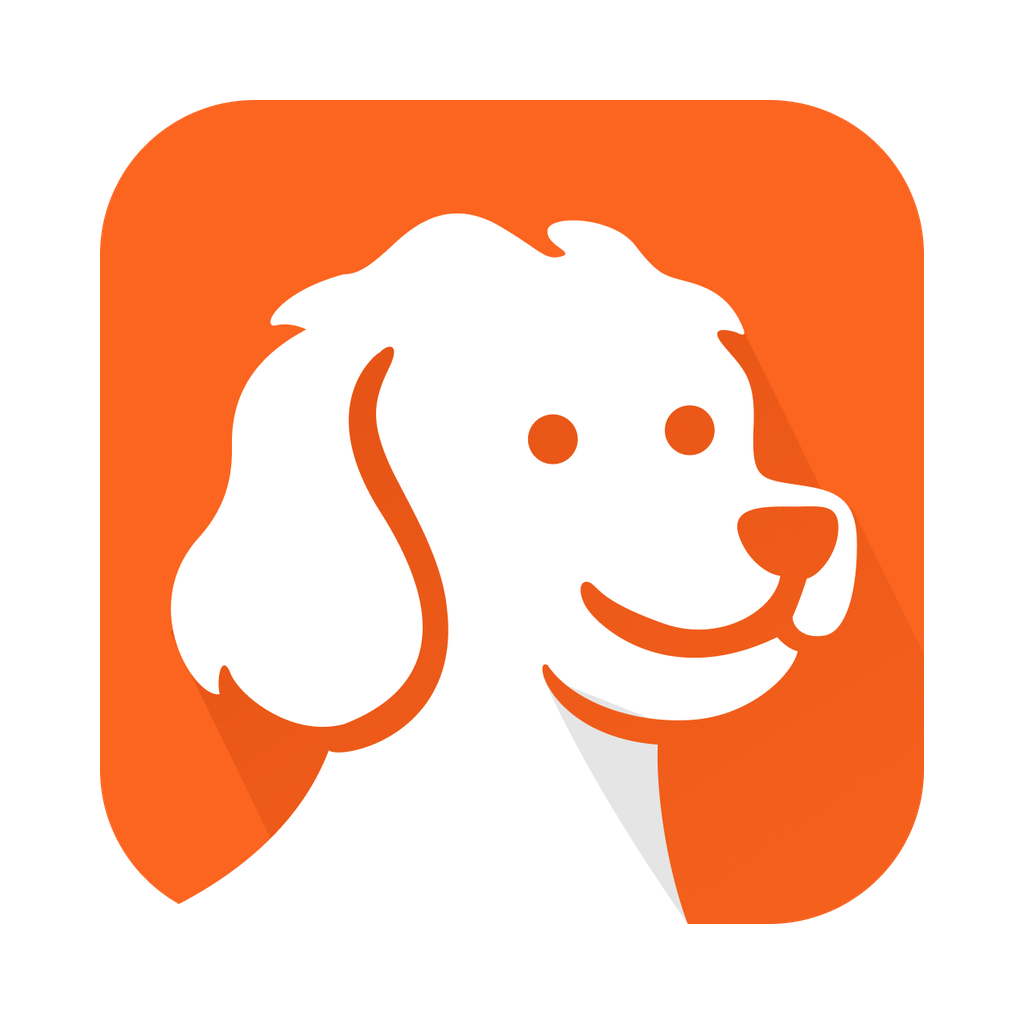
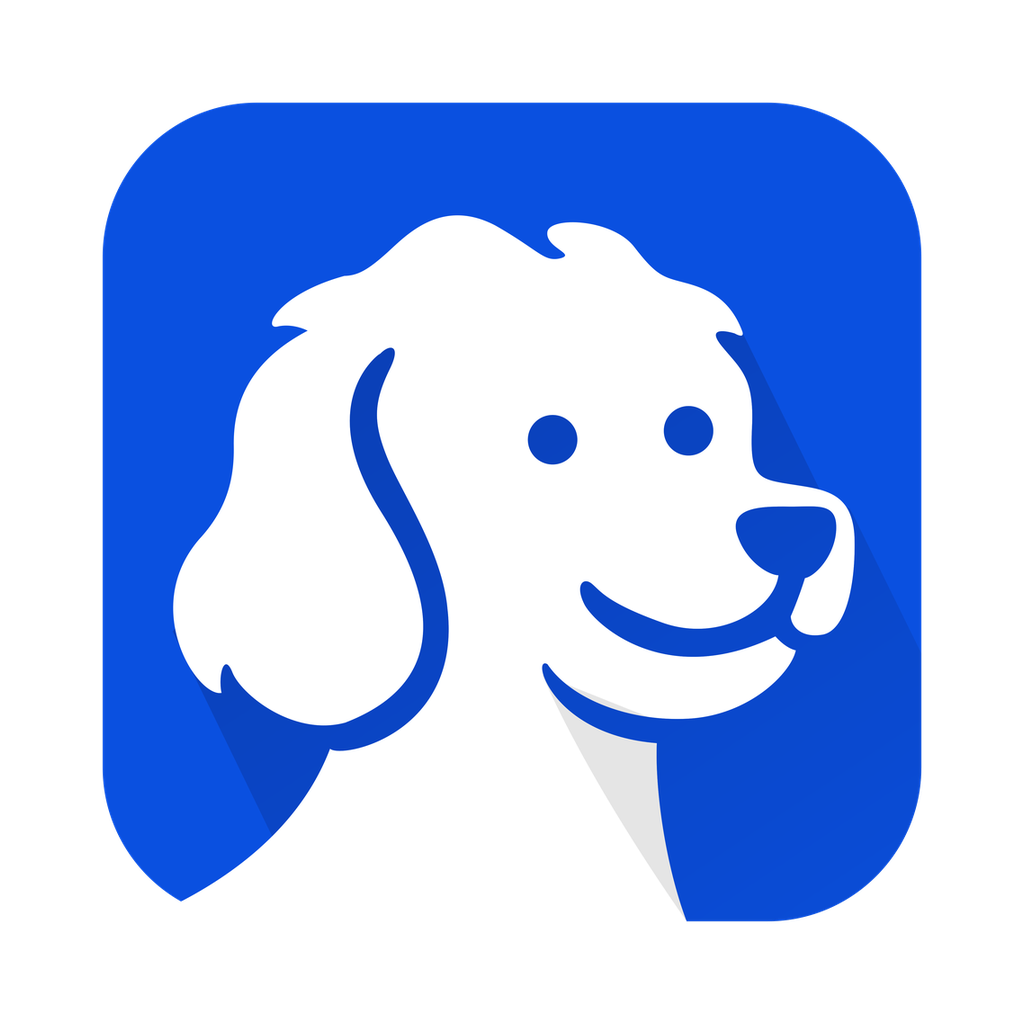
feat: streamline the home screen apps
- BrowserOS uses its blue app icon.
- The first row is BrowserOS, Agent Terminal and herbie; aalai leads the second row. Phones follow the same order.
- herbie links to its v2 rewrite, reads "Open Source alternative to Grokbot, dots and muse." and its Built with row reflects v2: Tauri, Bun, React and the Vercel AI SDK.
- Projects still being built carry a `wip` flag: their icons wear a rotated WIP sticker on the home screen, in the story dialog and on the Projects page, with an "In progress" label in the dialog and Projects rows (and for screen readers on the home screen).

diff --git a/daniakash.com/src/content.config.ts b/daniakash.com/src/content.config.ts
@@ -130,6 +130,8 @@ const project = defineCollection({
         tech: z.array(z.string()).optional(),
         /** Up to four key technologies, as logo slugs in public/tech (see constants/tech.ts). */
         stack: z.array(z.string()).max(4).optional(),
+        /** Still being built; the icon wears an "in progress" sticker. */
+        wip: z.boolean().optional(),
         link: z
           .object({
             href: z.string(),
